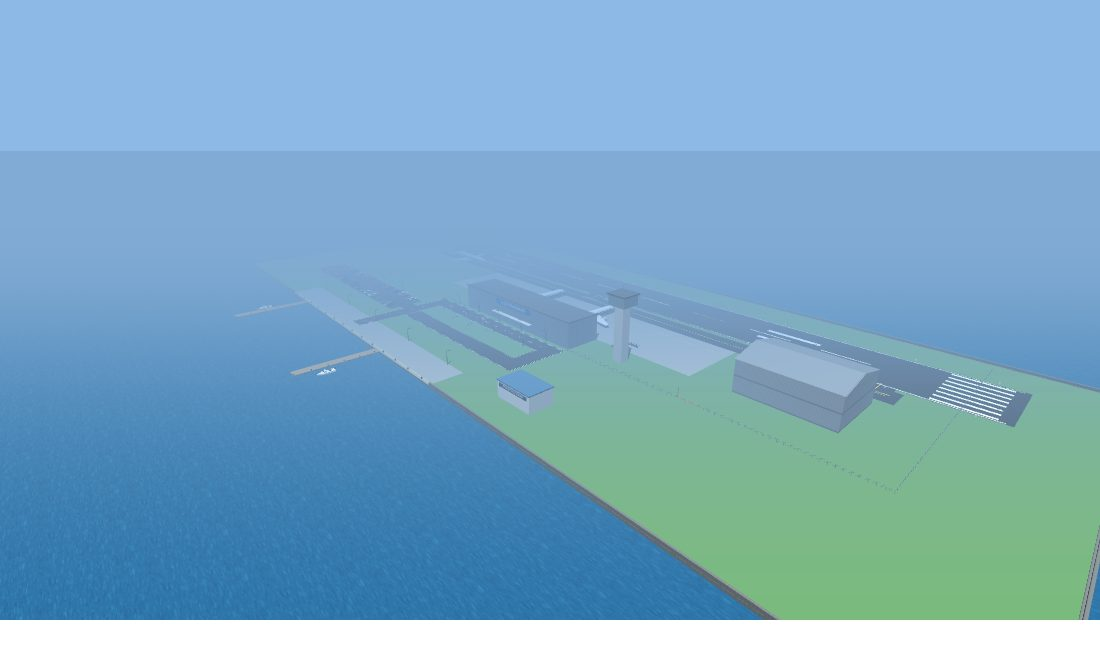
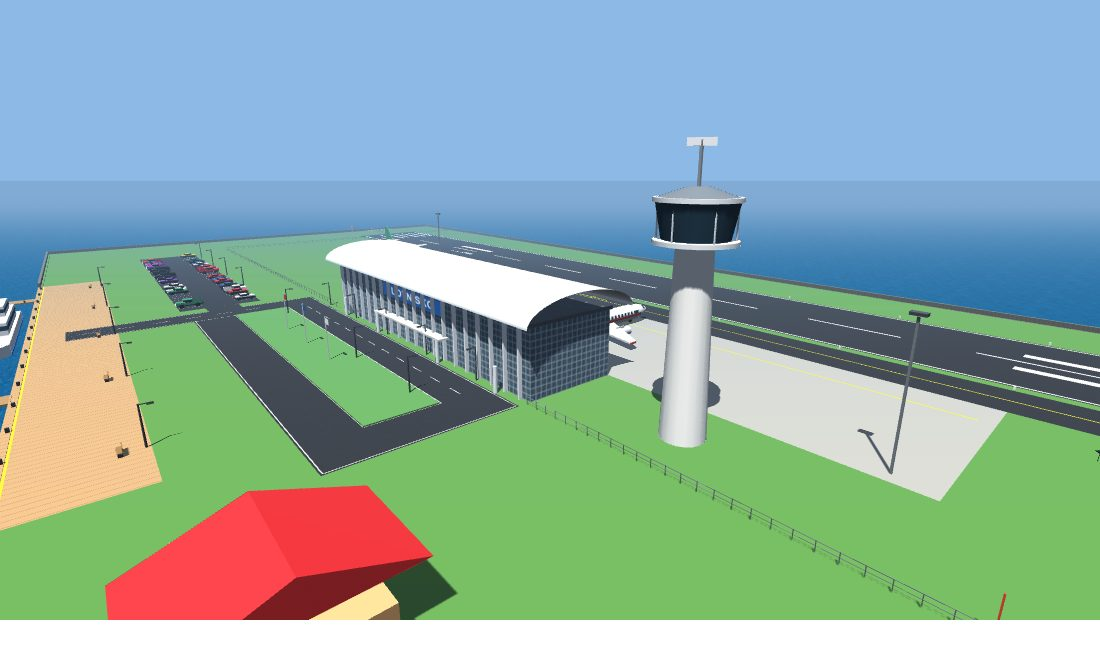
Menu debug na całą szerokość w kolumnach + sekcja Świat i nawigacja (mgła, zrzut ptaka, cel nawigacji, łódź); README i CLAUDE.md: lotniska, przystań, ptaki; nowe zrzuty

diff --git a/index.html b/index.html
@@ -273,17 +273,20 @@
     background:rgba(5,6,10,.82);backdrop-filter:blur(5px);
   }
   #debugMenu.on{display:flex}
+  /* panel na całą szerokość: sekcje jako karty w siatce kolumn (wszystko widać naraz) */
   #debugPanel{
-    width:min(440px,88vw);max-height:86vh;overflow-y:auto;
-    background:#14161bdd;border:1px solid #4a3320;border-radius:5px;padding:22px 24px 18px;
+    width:calc(100vw - 32px);max-height:calc(100vh - 32px);overflow-y:auto;
+    background:#14161bee;border:1px solid #4a3320;border-radius:6px;padding:18px 20px 14px;
+    display:grid;grid-template-columns:repeat(auto-fill,minmax(300px,1fr));gap:12px;align-content:start;
   }
-  #debugPanel h2{font-size:13px;letter-spacing:.16em;color:#ff9a3a;margin-bottom:2px}
-  #debugPanel .sub{font-size:11px;color:#68665f;margin-bottom:16px}
-  .dsec{margin-bottom:16px}
-  .dsec h3{font-size:10px;letter-spacing:.14em;color:#8d8b86;text-transform:uppercase;margin-bottom:8px}
-  .drow{display:flex;align-items:center;justify-content:space-between;gap:10px;margin-bottom:7px;font-size:12.5px;color:#c8c6bf}
+  #debugPanel .dhead{grid-column:1 / -1;display:flex;align-items:baseline;gap:14px}
+  #debugPanel h2{font-size:13px;letter-spacing:.16em;color:#ff9a3a}
+  #debugPanel .sub{font-size:11px;color:#68665f}
+  .dsec{background:#1b1e25;border:1px solid #2c3039;border-radius:5px;padding:12px 14px 6px}
+  .dsec h3{font-size:10px;letter-spacing:.14em;color:#ff9a3a;text-transform:uppercase;margin-bottom:9px;opacity:.85}
+  .drow{display:flex;align-items:center;justify-content:space-between;flex-wrap:wrap;gap:6px 10px;margin-bottom:8px;font-size:12.5px;color:#c8c6bf}
   .drow span.dval{color:var(--paint);font-variant-numeric:tabular-nums}
-  .dbtnrow{display:flex;gap:5px;flex-shrink:0}
+  .dbtnrow{display:flex;flex-wrap:wrap;gap:5px;justify-content:flex-end}
   .dbtn{
     pointer-events:auto;cursor:pointer;background:#2a2e37;border:1px solid #3c414c;border-bottom-width:2px;
     border-radius:3px;padding:6px 10px;font:500 11px/1 inherit;color:var(--paint);white-space:nowrap;
@@ -292,8 +295,8 @@
   .dbtn:hover{border-color:#ff9a3a}
   .drow input[type=range]{flex:1;accent-color:#ff9a3a}
   .drow input[type=checkbox]{width:15px;height:15px;accent-color:#ff9a3a;pointer-events:auto}
-  #debugInfo{font-size:11px;color:#68665f;line-height:1.7;border-top:1px solid var(--line);padding-top:10px;margin-top:4px}
-  #debugFoot{display:flex;justify-content:flex-end;margin-top:14px}
+  #debugInfo{grid-column:1 / -2;font-size:11px;color:#8d8b86;line-height:1.7;display:flex;flex-wrap:wrap;gap:4px 22px;align-items:center;border-top:1px solid var(--line);padding-top:10px}
+  #debugFoot{grid-column:-2 / -1;display:flex;justify-content:flex-end;align-items:center;border-top:1px solid var(--line);padding-top:10px}
   #closeDebug{
     pointer-events:auto;cursor:pointer;background:#ff9a3a;color:#14161b;border:0;border-radius:3px;
     padding:10px 20px;font:600 11px/1 inherit;letter-spacing:.1em;
@@ -408,8 +411,7 @@ var LOADER = (function(){
 
 <div id="debugMenu">
   <div id="debugPanel">
-    <h2>DEBUG</h2>
-    <div class="sub">Klawisz <kbd>`</kbd> otwiera i zamyka to menu.</div>
+    <div class="dhead"><h2>DEBUG</h2><div class="sub">Klawisz <kbd>`</kbd> otwiera i zamyka to menu.</div></div>
 
     <div class="dsec">
       <h3>Ruch drogowy</h3>
@@ -461,6 +463,17 @@ var LOADER = (function(){
         <span class="dbtnrow"><button class="dbtn" id="dbgAddBikes">+2</button></span></div>
       <div class="drow"><span>Szansa, że pirat wjedzie w rowerzystę: <b class="dval" id="dbgRamVal">15%</b></span><input type="range" id="dbgRam" min="0" max="1" step="0.05" value="0.15"></div>
       <div class="drow"><span>LOD AI (dalekie auta co drugą klatkę)</span><input type="checkbox" id="dbgLod" checked></div>
+    </div>
+
+    <div class="dsec">
+      <h3>Świat i nawigacja</h3>
+      <div class="drow"><span>Mgła: <b class="dval" id="dbgFogVal">100%</b></span><input type="range" id="dbgFog" min="0.2" max="2" step="0.1" value="1"></div>
+      <div class="drow"><span>Ptaki</span>
+        <span class="dbtnrow"><button class="dbtn" id="dbgBirdDrop">Zrzut obok</button><button class="dbtn" id="dbgBirdHit">Zrzut na mnie</button></span></div>
+      <div class="drow"><span>Cel nawigacji</span>
+        <span class="dbtnrow"><button class="dbtn" id="dbgWpHospital">Szpital</button><button class="dbtn" id="dbgWpAirport">Lotnisko</button><button class="dbtn" id="dbgWpClear">Usuń</button></span></div>
+      <div class="drow"><span>Łódź</span>
+        <span class="dbtnrow"><button class="dbtn" id="dbgBoat">Wsiądź w porcie</button></span></div>
     </div>
 
     <div id="debugInfo">

diff --git a/js/controls.js b/js/controls.js
@@ -194,7 +194,7 @@ document.addEventListener('keyup', e => {
 window.addEventListener('blur', () => { for (const k in keys) keys[k] = false; mouseDown = false; Sound.horn(false); });
 
 /* --- debug menu --- */
-let godMode = false, timeFrozen = false, debugOpen = false, wasLockedBeforeDebug = false, carSpeedMult = 1;
+let godMode = false, timeFrozen = false, debugOpen = false, wasLockedBeforeDebug = false, carSpeedMult = 1, fogMult = 1;
 const debugEl = document.getElementById('debugMenu');
 const dbg = {
   carCount: document.getElementById('dbgCarCount'),
@@ -391,6 +391,25 @@ document.getElementById('dbgAddBikes').addEventListener('click', ev => {
 });
 dbg.ram.addEventListener('input', () => { PIRATE_RAM_CHANCE = parseFloat(dbg.ram.value); dbg.ramVal.textContent = Math.round(PIRATE_RAM_CHANCE * 100) + '%'; });
 dbg.lod.addEventListener('change', () => { NPC_LOD_DIST = dbg.lod.checked ? 220 : Infinity; });
+/* świat i nawigacja (debug) */
+const dbgEl = id => document.getElementById(id);
+dbgEl('dbgFog').addEventListener('input', e => { fogMult = parseFloat(e.target.value); dbgEl('dbgFogVal').textContent = Math.round(fogMult * 100) + '%'; });
+const dbgDrop = onMe => {
+  const p = playerWorldPos(), b = birds[0];
+  b.pos.set(p.x + (onMe ? 0 : 5), (p.y || 0) + 22, p.z + (onMe ? 0 : 3)); b.prev.copy(b.pos); birdDrop(b);
+};
+dbgEl('dbgBirdDrop').addEventListener('click', ev => { ev.stopPropagation(); dbgDrop(false); });
+dbgEl('dbgBirdHit').addEventListener('click', ev => { ev.stopPropagation(); dbgDrop(true); });
+dbgEl('dbgWpHospital').addEventListener('click', ev => { ev.stopPropagation(); setWaypoint(HOSPITAL_SPAWN.x, HOSPITAL_SPAWN.z + 2); hudToast('Cel: szpital'); });
+dbgEl('dbgWpAirport').addEventListener('click', ev => { ev.stopPropagation(); setWaypoint(AIRPORT_W.front.x, AIRPORT_W.term.z0 + 10); hudToast('Cel: lotnisko miejskie'); });
+dbgEl('dbgWpClear').addEventListener('click', ev => { ev.stopPropagation(); setWaypoint(null); });
+dbgEl('dbgBoat').addEventListener('click', ev => {
+  ev.stopPropagation();
+  if (mode === 'plane') exitPlane(true);
+  if (mode === 'car'){ hudToast('Najpierw wysiądź z auta (F)'); return; }
+  if (mode === 'boat') return;
+  const b = boats[0]; b.v = 0; enterBoat(b); camCur.set(b.pos.x, 6, b.pos.z + 12); refreshDebugInfo();
+});
 dbg.teleport.addEventListener('click', ev => {
   ev.stopPropagation();
   if (mode === 'car'){

diff --git a/js/birds.js b/js/birds.js
@@ -64,7 +64,7 @@ function updateBirds(dt){
     const dx = b.pos.x - b.prev.x, dz = b.pos.z - b.prev.z;
     if (dx * dx + dz * dz > 1e-6) b.head = Math.atan2(dx, dz);
     b.flap += dt * b.fr;
-    const fl = Math.sin(b.flap) * 0.55, s = b.span, ch = Math.cos(b.head), sh = Math.sin(b.head);
+    const fl = Math.sin(b.flap) * 0.32, s = b.span, ch = Math.cos(b.head), sh = Math.sin(b.head);
     /* lokalnie: przód +z, bok +x; P(lx, ly, lz) -> świat */
     const K = 1.6, P = (lx, ly, lz, o) => { lx *= K; ly *= K; lz *= K; pos[o] = b.pos.x + lx * ch + lz * sh; pos[o + 1] = b.pos.y + ly; pos[o + 2] = b.pos.z - lx * sh + lz * ch; };   // mewa ~2.5 m rozpiętości (czytelna z dołu)
     const o = i * 27;

diff --git a/js/daynight.js b/js/daynight.js
@@ -33,7 +33,7 @@ function updateSky(dt){
   scene.background = skyCol;
   fogCol.copy(skyCol).multiplyScalar(lerp(0.55, 0.92, dayF));
   scene.fog.color.copy(fogCol);
-  scene.fog.density = lerp(0.0062, 0.0036, dayF);              // dalszy zasięg widzenia (w dzień ~ 2× dalej niż wcześniej)
+  scene.fog.density = lerp(0.0062, 0.0036, dayF) * fogMult;              // dalszy zasięg widzenia (w dzień ~ 2× dalej niż wcześniej)
 
   sun.intensity = dayF * 1.25 + nightF * 0.34;                 // nocą: słaba, chłodna poświata księżyca
   sun.color.copy(C_SUN_D).lerp(C_SUN_K, duskF * 0.85).lerp(C_MOON, nightF);

diff --git a/README.md b/README.md
@@ -73,8 +73,14 @@ Jak wystartować: ustaw samolot na pasie, trzymaj `W`, a gdy prędkościomierz p
 |---|---|---|
 | ![Wyspa](screenshots/wyspa.jpg) | ![Port](screenshots/port.jpg) | ![Łódź](screenshots/lodz.jpg) |
 
+| Przystań na wysepce | Mewy nad miastem |
+|---|---|
+| ![Przystań](screenshots/przystan.jpg) | ![Ptaki](screenshots/ptaki.jpg) |
+
 - Miasto leży na wyspie otoczonej morzem, z nabrzeżem i balustradą dookoła.
-- Na północnym brzegu jest **port**: plac kontenerowy z suwnicą, dwa dźwigi nabrzeżowe, statek kontenerowy, magazyn, biuro portu i przystań z motorówkami.
+- Na północnym brzegu jest **port towarowy**: plac kontenerowy z suwnicą, dwa dźwigi nabrzeżowe, statek kontenerowy i holownik, zbiorniki paliw, magazyn, biuro portu, przystań z motorówkami i falochron z biało-czerwoną latarnią.
+- Na wysepce jest **przystań pasażerska**: drewniany deptak, kasa biletowa z czerwonym dachem, ławki, prom, jachty i latarnie wejścia (zielona i czerwona).
+- Nad miastem, portem i przy graczu latają **mewy**. Co jakiś czas któraś „zrzuca balast”: na ziemi albo dachu zostaje biała plama, która po kilku sekundach znika. Trafienie w ciebie albo w szybę auta kończy się komunikatem i plamą na ekranie.
 - Za cieśniną, ok. 250 m na północ, leży **wysepka z drugim lotniskiem** i własną przystanią. Dopłyniesz tam łodzią z portu albo dolecisz samolotem z lotniska miejskiego.
 - Kto wpadnie do wody (pieszo albo autem), zostaje wyciągnięty na brzeg; auto ląduje obok. Samolot, który dotknie wody, rozbija się i tonie.
 
@@ -130,21 +136,21 @@ Jak wystartować: ustaw samolot na pasie, trzymaj `W`, a gdy prędkościomierz p
 |---|---|---|
 | ![Spadochron](screenshots/spadochron.jpg) | ![Katastrofa](screenshots/katastrofa.jpg) | ![Odrzutowiec](screenshots/odrzutowiec.jpg) |
 
-- **Dwa lotniska**: miejskie w zachodnim pasie zieleni wyspy głównej (pas 18/36, 326 × 26 m, terminal, wieża, hangar, parking, dojazd z alei) i na wysepce na północ od miasta (pas 09/27, 336 × 30 m, płyta z rękawami, terminal, wieża, hangar, parking, przystań). Na każdym stoi odrzutowiec i awionetka — można przelecieć z jednego na drugie.
+- **Dwa różne lotniska**: miejskie (regionalne) w zachodnim pasie zieleni wyspy głównej — pas 18/36 (326 × 26 m), ceglany terminal z dachem dwuspadowym, ceglana wieża z ośmiokątną kabiną, dwa hangary łukowe, zbiorniki paliwa; oraz międzynarodowe na wysepce — pas 09/27 (336 × 30 m) ze światłami podejścia, terminal z łukowym dachem i rękawami, okrągła wieża ze szklaną kabiną, radar, cysterna i wózki bagażowe, hangar, parking, przystań. Na każdym stoi odrzutowiec i awionetka — można przelecieć z jednego na drugie.
 - Dwa samoloty: szybki odrzutowiec i zwrotna awionetka. Sterowanie strzałkami z autopoziomowaniem, ochroną przed przeciągnięciem i asystentem lądowania.
 - `F` w locie — wyskakujesz, otwiera się prostokątna czasza (skręty `A`/`D`, `W` szybciej, `S` hamowanie), a samolot bez pilota nurkuje i rozbija się.
 - Zderzenie z budynkiem albo twarde lądowanie to katastrofa: kula ognia przechodząca w dym, błysk, odłamki, płonący wrak, wstrząs kamery i huk. Pilot nie przeżywa (z nieśmiertelnością z menu debug ląduje obok wraku). Po kilkunastu sekundach samolot wraca na lotnisko — gdy jego stanowisko jest wolne.
 
 ### Menu debug (`` ` ``)
 
-Liczba aut i pieszych, pora dnia, nieśmiertelność, amunicja, teleporty (start, port, lotnisko miejskie, wysepka, autostrada, zjazd, obwodnica), zmiana typu auta w trakcie jazdy i rower, kierunkowskazy, samolot na lotnisku albo od razu w powietrzu, dodawanie piratów i rowerzystów, szansa potrącenia rowerzysty, przełącznik LOD.
+Panel na całą szerokość ekranu, sekcje w kolumnach. Liczba aut i pieszych, pora dnia, nieśmiertelność, amunicja, teleporty (start, port, lotnisko miejskie, wysepka, autostrada, zjazd, obwodnica), zmiana typu auta w trakcie jazdy i rower, kierunkowskazy, samolot na lotnisku albo od razu w powietrzu, dodawanie piratów i rowerzystów, szansa potrącenia rowerzysty, przełącznik LOD, gęstość mgły, zrzut balastu przez ptaka (obok albo na ciebie), szybki cel nawigacji (szpital, lotnisko) i jego usunięcie, wejście do łodzi w porcie.
 
 ![Ekran ładowania](screenshots/ladowanie.jpg)
 
 ## Jak to jest zrobione
 
 - **Three.js r128** (grafika) i **cannon.js 0.6.2** (fizyka) z CDN, reszta to czysty JavaScript bez frameworków. Dźwięk syntezuje Web Audio, tekstury rysuje Canvas 2D.
-- 34 zwykłe skrypty ze wspólnym zakresem globalnym, ładowanych w kolejności z `loadorder.txt` (bez bundlera, więc gra działa z `file://`).
+- 36 zwykłych skryptów ze wspólnym zakresem globalnym, ładowanych w kolejności z `loadorder.txt` (bez bundlera, więc gra działa z `file://`).
 - Geometria miasta scalana w kilkadziesiąt siatek (ok. 200 wywołań rysowania), statyczne kolizje w komórkach 48 m.
 - Auta NPC to ciała kinematyczne na trasach z punktów; skrzyżowania rozstrzygane wg czasu dojazdu, ronda, światła, kolejki, objazdy i zmiana pasa.
 

diff --git a/CLAUDE.md b/CLAUDE.md
@@ -40,14 +40,16 @@ Brak bundlera: `index.html` ładuje zwykłe `<script>` w kolejności z `loadorde
 | sound.js | synteza dźwięku |
 | vehicle-entry.js | wsiadanie, wysiadanie, kradzież, atrapa głównego auta |
 | planes.js | samoloty (`PLANE_TYPES` jet/prop, `planes`): modele, ciało kinematyczne G_PLANE, `enterPlane`/`exitPlane`, lot `planeStep` (W/S gaz, strzałki = docelowe pochylenie/przechył, asystent lądowania), skok `bailOut` + `updateParachute` (prostokątna czasza, A/D skręt, W/S szybciej/hamowanie; wołane w main-loop po `updatePlayer`, kompensuje grawitację świata −20), samolot bez pilota (`p.free`), katastrofa `planeCrash` (gracz na wolne miejsce `safeSpot`, efekty `fxList`/`updateFx`, wrak `wreckEmit`, `camShake`, `Sound.boom`; pilot ginie) |
+| landmarks.js | detale lotnisk i portów (jedna scalona siatka `LM`, `buildLandmarks`): łukowy dach i okrągła wieża na wysepce, ceglany terminal/wieża i hangary łukowe w lotnisku miejskim, falochron z latarnią, zbiorniki, holownik, dziób statku, kasa, prom, jachty |
 | boats.js | łodzie (`BOAT_T`, `boats`): model, `enterBoat`/`exitBoat` (wysiadka tylko przy brzegu), `updateBoat`, `boatBlocked` (ląd, pomosty, statek, inne łodzie), `playerWorldPos()` |
-| daynight.js | cykl dobowy |
+| birds.js | mewy (`BIRD_FLOCKS`, jedna dynamiczna siatka), zrzut balastu (`birdDrop`, plamy `splatAt` znikają po kilku s, trafienie gracza → `#birdSplat`) |
+| daynight.js | cykl dobowy (mgła × `fogMult` z debug) |
 | update-player.js / update-vehicle.js / update-npc.js | logika na klatkę |
 | camera.js / hud.js | kamera TPP (osobne gałęzie: samolot, łódź; `camShake`) / HUD, minimapa (`mapStatic` obejmuje obie wyspy) |
 | navigation.js | pełna mapa (M, `openMap`/`closeMap`, PPM = cel), graf ulic `NAV` (jednokierunkowa obwodnica dla aut, dojazdy szpitala, portu, wysepki), `navCompute` (Dijkstra, przeprawa przez `PORTS`), słup celu, trasa na minimapie |
 | main-loop.js | pętla `frame` i start (`LOADER.finish()` chowa ekran ładowania z index.html) |
 
-Tryby `mode`: foot / car / plane / boat. Klawisze: M = mapa (otwarta mapa też pauzuje), N = wyciszenie. Klatka (`main-loop.js`): pauza (`gameStarted && !pointerLocked && !debugOpen`) = tylko render; inaczej `updateSky` → `updateTrafficLights` → `updateNpcs` → `updatePedestrians` → `updateCar` → `updatePlane` / `updatePlanesIdle` → `updateBoat` / `updateBoatsIdle` → `updatePlayer` → `updateParachute` → `physicsStep` (po nim `updateWaterHazards`, `navUpdate`, `updateSea`; akumulator 1/60, maks. 2 kroki, porzuca zaległość) → interpolacja modeli (`_p0/_q0`, `alpha`) → `syncCar` → kamera → HUD → render. Teleport ciała = `noLerp`.
+Tryby `mode`: foot / car / plane / boat. Klawisze: M = mapa (otwarta mapa też pauzuje), N = wyciszenie. Klatka (`main-loop.js`): pauza (`gameStarted && !pointerLocked && !debugOpen`) = tylko render; inaczej `updateSky` → `updateTrafficLights` → `updateNpcs` → `updatePedestrians` → `updateCar` → `updatePlane` / `updatePlanesIdle` → `updateBoat` / `updateBoatsIdle` → `updateBirds` → `updatePlayer` (nie pod otwartą czaszą) → `updateParachute` → `physicsStep` (po nim `updateWaterHazards`, `navUpdate`, `updateSea`; akumulator 1/60, maks. 2 kroki, porzuca zaległość) → interpolacja modeli (`_p0/_q0`, `alpha`) → `syncCar` → kamera → HUD → render. Teleport ciała = `noLerp`.
 
 ## Układ świata
 - Siatka 12×12: oś ulicy `L(i) = −264 + 44i`, `blockCenter(i) = L(i) + 22`, `ROAD_H = 7` (pół jezdni), `LOT = 30` (działka), `WALK_H = 0.25`.
